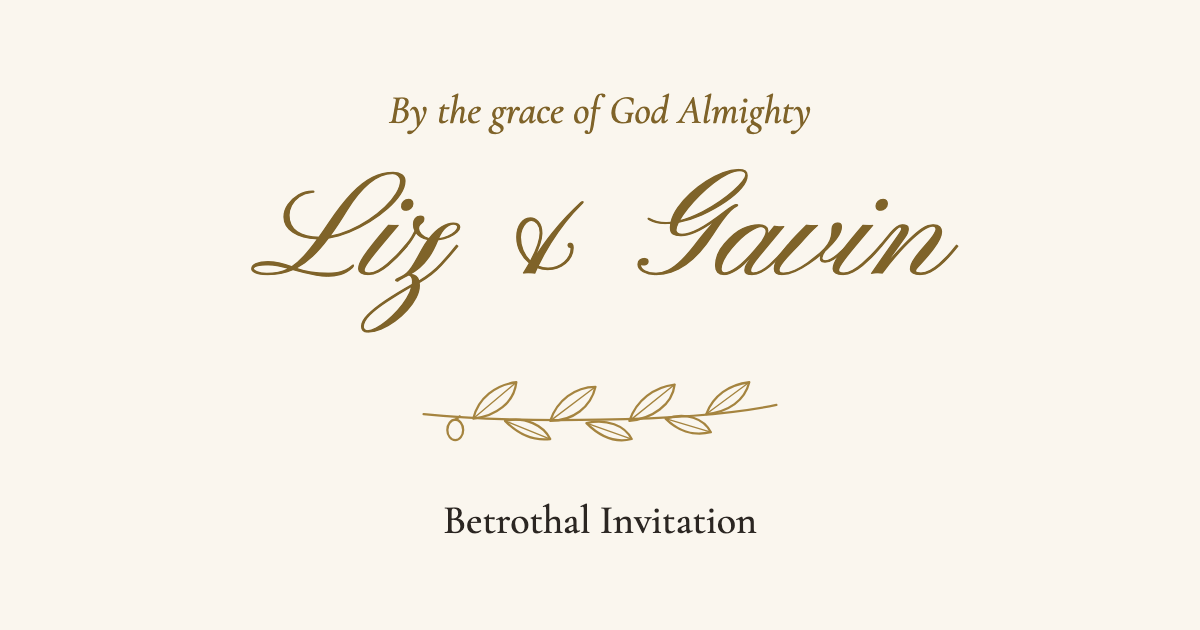
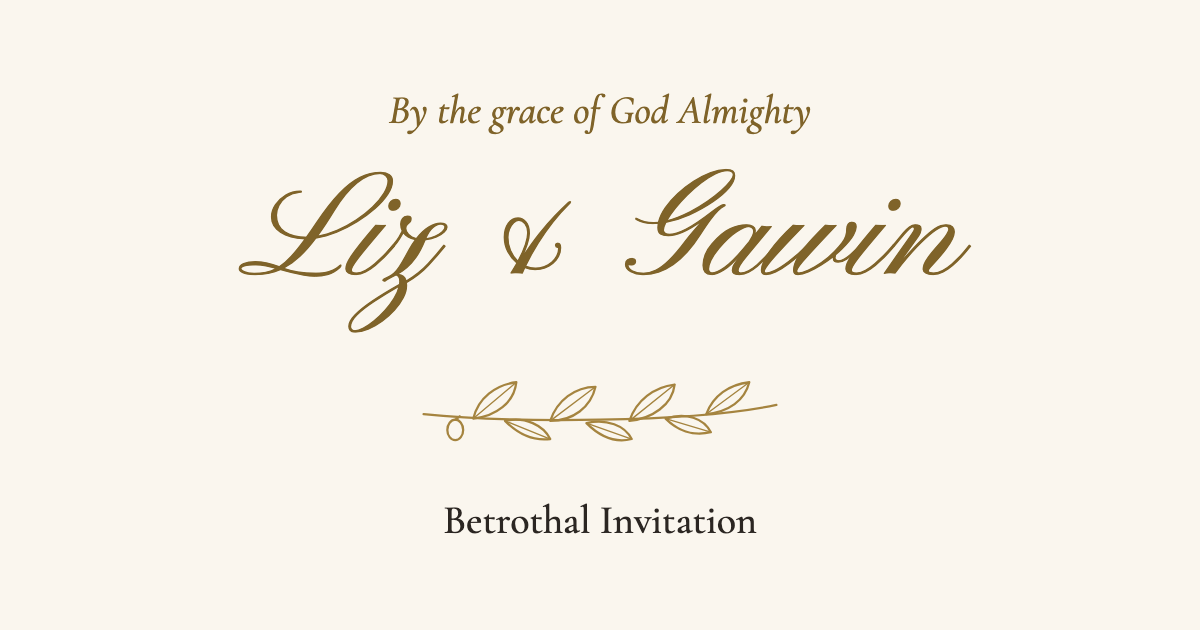
Correct the groom's name to Gawin

Changed region(s): [[0.185, 0.2714, 0.4933, 0.5429], [0.5242, 0.2714, 0.8017, 0.4524]]

diff --git a/index.html b/index.html
@@ -7,15 +7,15 @@
   <meta name="color-scheme" content="light">
   <meta name="theme-color" content="#FAF6EE">
 
-  <title>Liz &amp; Gavin | Betrothal Invitation</title>
-  <meta name="description" content="You are invited to the betrothal of Liz and Gavin.">
+  <title>Liz &amp; Gawin | Betrothal Invitation</title>
+  <meta name="description" content="You are invited to the betrothal of Liz and Gawin.">
 
   <!-- WhatsApp doesn't run JavaScript, so these stay static. Update the URLs if the address changes. -->
   <meta property="og:type" content="website">
-  <meta property="og:title" content="Liz &amp; Gavin | Betrothal Invitation">
-  <meta property="og:description" content="You are invited to the betrothal of Liz and Gavin. Kindly view the details and respond.">
-  <meta property="og:url" content="https://liz-gavin.vercel.app/">
-  <meta property="og:image" content="https://liz-gavin.vercel.app/assets/og-image.png">
+  <meta property="og:title" content="Liz &amp; Gawin | Betrothal Invitation">
+  <meta property="og:description" content="You are invited to the betrothal of Liz and Gawin. Kindly view the details and respond.">
+  <meta property="og:url" content="https://liz-gawin.vercel.app/">
+  <meta property="og:image" content="https://liz-gawin.vercel.app/assets/og-image.png">
   <meta property="og:image:width" content="1200">
   <meta property="og:image:height" content="630">
 

diff --git a/main.js b/main.js
@@ -2,7 +2,7 @@
   "use strict";
 
   const INVITE = window.INVITE;
-  const STORAGE_KEY = "liz-gavin-rsvp";
+  const STORAGE_KEY = "liz-gawin-rsvp";
   const MAX_GUESTS = 6;
   const SEND_TIMEOUT_MS = 15000;
   const IST_OFFSET_MS = 5.5 * 60 * 60 * 1000;
@@ -124,10 +124,10 @@
     const lines = [
       "BEGIN:VCALENDAR",
       "VERSION:2.0",
-      "PRODID:-//Liz and Gavin//Betrothal Invite//EN",
+      "PRODID:-//Liz and Gawin//Betrothal Invite//EN",
       "CALSCALE:GREGORIAN",
       "BEGIN:VEVENT",
-      `UID:${event.id}-${INVITE.date}@liz-gavin-betrothal`,
+      `UID:${event.id}-${INVITE.date}@liz-gawin-betrothal`,
       `DTSTAMP:${utcStamp(Date.now())}`,
       `DTSTART:${times.start}`,
       `DTEND:${times.end}`,

diff --git a/content.js b/content.js
@@ -8,7 +8,7 @@ window.INVITE = {
     home: "Kizhakkepullenkannapallil, Nambiyakulam",
   },
   groomSide: {
-    child: "Gavin Paul",
+    child: "Gawin Paul",
     parents: "[TBD: Mr. Father & Mrs. Mother Family]",
     home: "[TBD: House, Town]",
   },

diff --git a/ARCHITECTURE.md b/ARCHITECTURE.md
@@ -1,4 +1,4 @@
-# Liz & Gavin Betrothal Invite: Architecture
+# Liz & Gawin Betrothal Invite: Architecture
 
 ## 1. Summary
 
@@ -28,11 +28,11 @@ A single-page, mobile-first invitation at one shared link. It shows the invitati
 | Visual style | Ivory and antique gold, typography plus one fine-line illustration |
 | Opening | Straight to the invite with a gentle fade; no envelope or tap |
 | Extras | Google Maps link and Add to Calendar per event |
-| Address | Free subdomain, e.g. `liz-gavin.vercel.app`, if available |
+| Address | Free subdomain, e.g. `liz-gawin.vercel.app`, if available |
 
 ### Assumptions to confirm with the family
 
-- The couple's first names are Liz and Gavin (taken from the folder name).
+- The couple's first names are Liz and Gawin (taken from the folder name).
 - Liz is the bride, so her parents are listed first.
 - "Holy Qurbana" is the correct term. The church's name says Syro-Malabar, so the site uses this instead of "Holy Mass". This is one field in the content file.
 - All times are in IST (`Asia/Kolkata`).
@@ -69,7 +69,7 @@ Mr. [Father] & Mrs. [Mother] [Family]
 
 &
 
-Gavin Paul
+Gawin Paul
 son of
 Mr. [Father] & Mrs. [Mother] [Family]
 [House], [Town]
@@ -136,7 +136,7 @@ Private Google Sheet  <-- the family reads replies here
 ### Files
 
 ```text
-liz-gavin-betrothal/
+liz-gawin-betrothal/
   ARCHITECTURE.md
   index.html          Page shell, plus static title and social preview tags
   styles.css          Design tokens and layout
@@ -163,7 +163,7 @@ liz-gavin-betrothal/
 window.INVITE = {
   blessing: "By the grace of God Almighty",
   brideSide: { child: "Liz", parents: "[TBD]", home: "[TBD]" },
-  groomSide: { child: "Gavin", parents: "[TBD]", home: "[TBD]" },
+  groomSide: { child: "Gawin", parents: "[TBD]", home: "[TBD]" },
   liturgyTerm: "Holy Mass", // family to confirm: or "Holy Qurbana"
   date: "[TBD: YYYY-MM-DD]",
   replyBy: "[TBD: YYYY-MM-DD]",
@@ -275,7 +275,7 @@ These need Joseph's own logins:
 1. Create the Sheet in his Google account and share it with the cousin.
 2. In the Sheet, open **Extensions > Apps Script**, paste in `apps-script/Code.gs`, and run `setupSheet` once. This creates the `Responses` and `Summary` tabs.
 3. Deploy the script as a web app: **Execute as: Me**, **Who has access: Anyone**. Copy the URL into `rsvpEndpoint` in `content.js`.
-4. Log in to Vercel and deploy. If `liz-gavin.vercel.app` is taken, update the `og:url` and `og:image` tags in `index.html`.
+4. Log in to Vercel and deploy. If `liz-gawin.vercel.app` is taken, update the `og:url` and `og:image` tags in `index.html`.
 
 To update the script later, use **Manage deployments > Edit > New version**. Creating a new deployment changes the URL and breaks the form.
 
